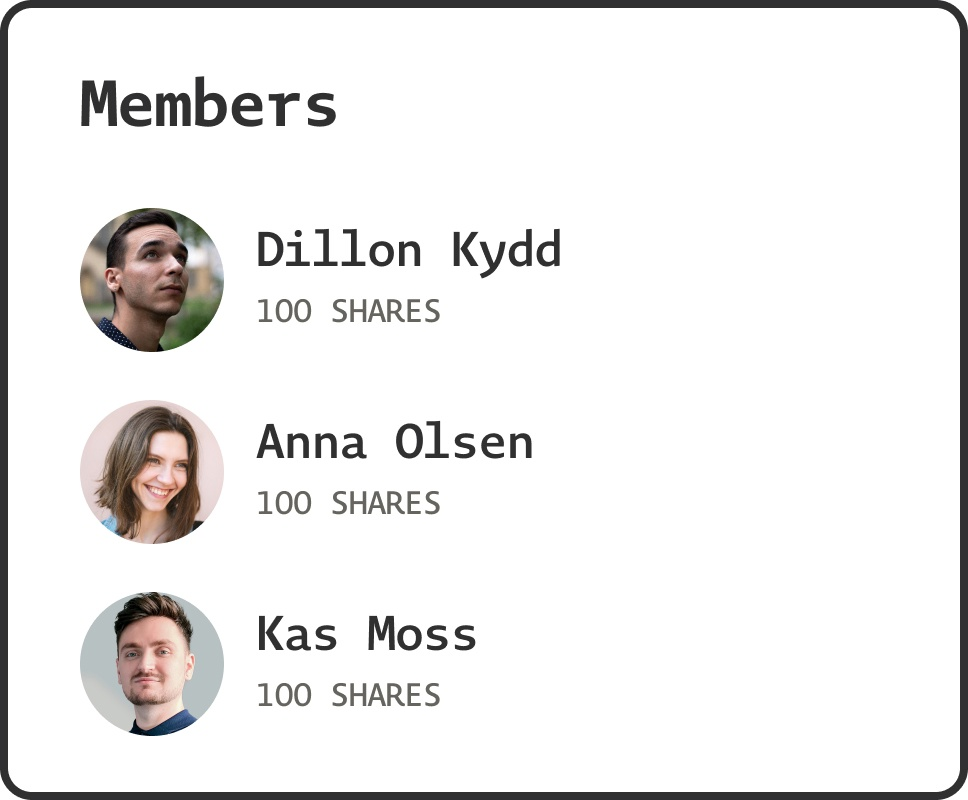
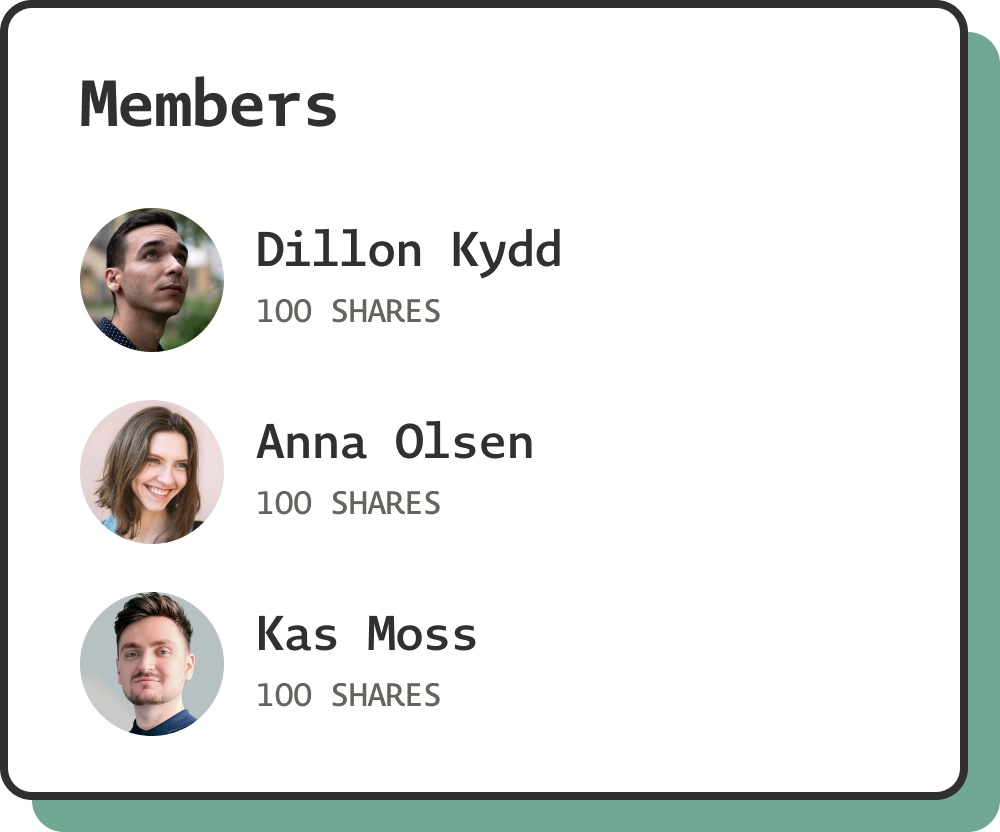
kickstart section added

diff --git a/index.html b/index.html
@@ -46,12 +46,27 @@
             <p>Open Enterprise supports best practices in sociocratic management.</p>
         </div>
     </section>
-
     <section class="kickstart">
-        <img src="./assets/img/kickstart-decor.svg" alt="">
-        <h2>Kickstart an organization with your co-founders</h2>
-        <p>It’s the early days, you just had a long conversation with two friends about a meaningful challenge that you’re all passionate about and have a potential solution for. You’re ready to embark the startup journey.</p>
-        <img src="./assets/img/members.jpg" alt="">
+        <h2 class="kickstart_header">Kickstart an organization with your co-founders</h2>
+        <p class="kickstart_desc">It’s the early days, you just had a long conversation with two friends about a meaningful challenge that you’re all passionate about and have a potential solution for. You’re ready to embark the startup journey.</p>
+        <div class="members-list"> 
+            <h2 class="members-list_header">Members</h2>
+            <div class="members-card">
+                <img class="members-card_image" src="./assets/img/dillon.jpg" alt="">
+                <h2 class="members-card_name">Dillon Kydd</h2>
+                <p class="members-card_shares">100 shares</p>
+            </div>
+            <div class="members-card">
+                <img class="members-card_image" src="./assets/img/anna.jpg" alt="">
+                <h2 class="members-card_name" >Anna Olsen</h2>
+                <p class="members-card_shares">100 shares</p>
+            </div>
+            <div class="members-card">
+                <img class="members-card_image" src="./assets/img/kas.jpg" alt="">
+                <h2 class="members-card_name">Kas Moss</h2>
+                <p class="members-card_shares">100 shares</p>
+            </div>
+        </div>
     </section>
 
 </body>

diff --git a/assets/styles/style.css b/assets/styles/style.css
@@ -16,6 +16,10 @@
     font-weight: normal;
   }
 
+  @font-face {
+    font-family: "NovelMono";
+    src: url("../fonts/NovelMono/novel-mono-pro-regular.otf");
+  }
 
   :root {
     font-family: "Proxima-Nova", sans-serif;
@@ -115,6 +119,7 @@
     display: grid;
     grid-template: 1fr fit-content 1fr / 1fr 1fr 1fr;
     justify-items: center;
+    margin-bottom: 10em;
 }
 
 .reimagining-header {
@@ -148,3 +153,72 @@
     font-size: 1.1rem;
 }
 
+.kickstart {
+    display: grid;
+    grid-template: 30% 1fr / 50% 50%;
+    justify-items: center;
+}
+
+.kickstart_header {
+    justify-self: end;
+    font-family: "Bely-font", sans-serif;
+    color: rgb(48, 48, 48);
+    font-size: 3rem;
+    width: 70%;
+}
+
+.kickstart_desc {
+    justify-self: end;
+    font-size: 1.2rem;
+    grid-area: 2/1/2/2;
+    width: 70%;
+}
+
+.members-list {
+    display: grid;
+    align-items: center;
+
+    grid-template: repeat(4, 25%) / 1fr;
+    align-content: space-evenly;
+    background-color: rgb(248, 252, 252);
+    width: 484px;
+    height: 410px;
+    border-radius: 10px;
+    border: 3px solid black;
+    box-shadow: 15px 15px 1px rgba(113, 168, 148, 1);
+    font-family: "NovelMono", serif;
+}
+
+.members-list_header {
+    font-size: 2rem;
+    margin-left: 1.9em;
+
+}
+
+.members-card {
+    display: grid;
+    grid-template: 40% 30% / 30% 40%;
+    justify-items: center;
+    align-items: center;
+
+}
+
+.members-card_image {
+    border-radius: 50%;
+    width: 5em;
+    grid-row: span 2;
+    justify-self: end;
+    margin-right: 1em;
+}
+
+.members-card_shares {
+    grid-area: 2/2/2/3;
+    justify-self: start;
+    color: rgba(102, 100, 94, 1);
+    text-transform: uppercase;
+}
+
+.members-card_name {
+    justify-self: start;
+    align-self: start;
+}
